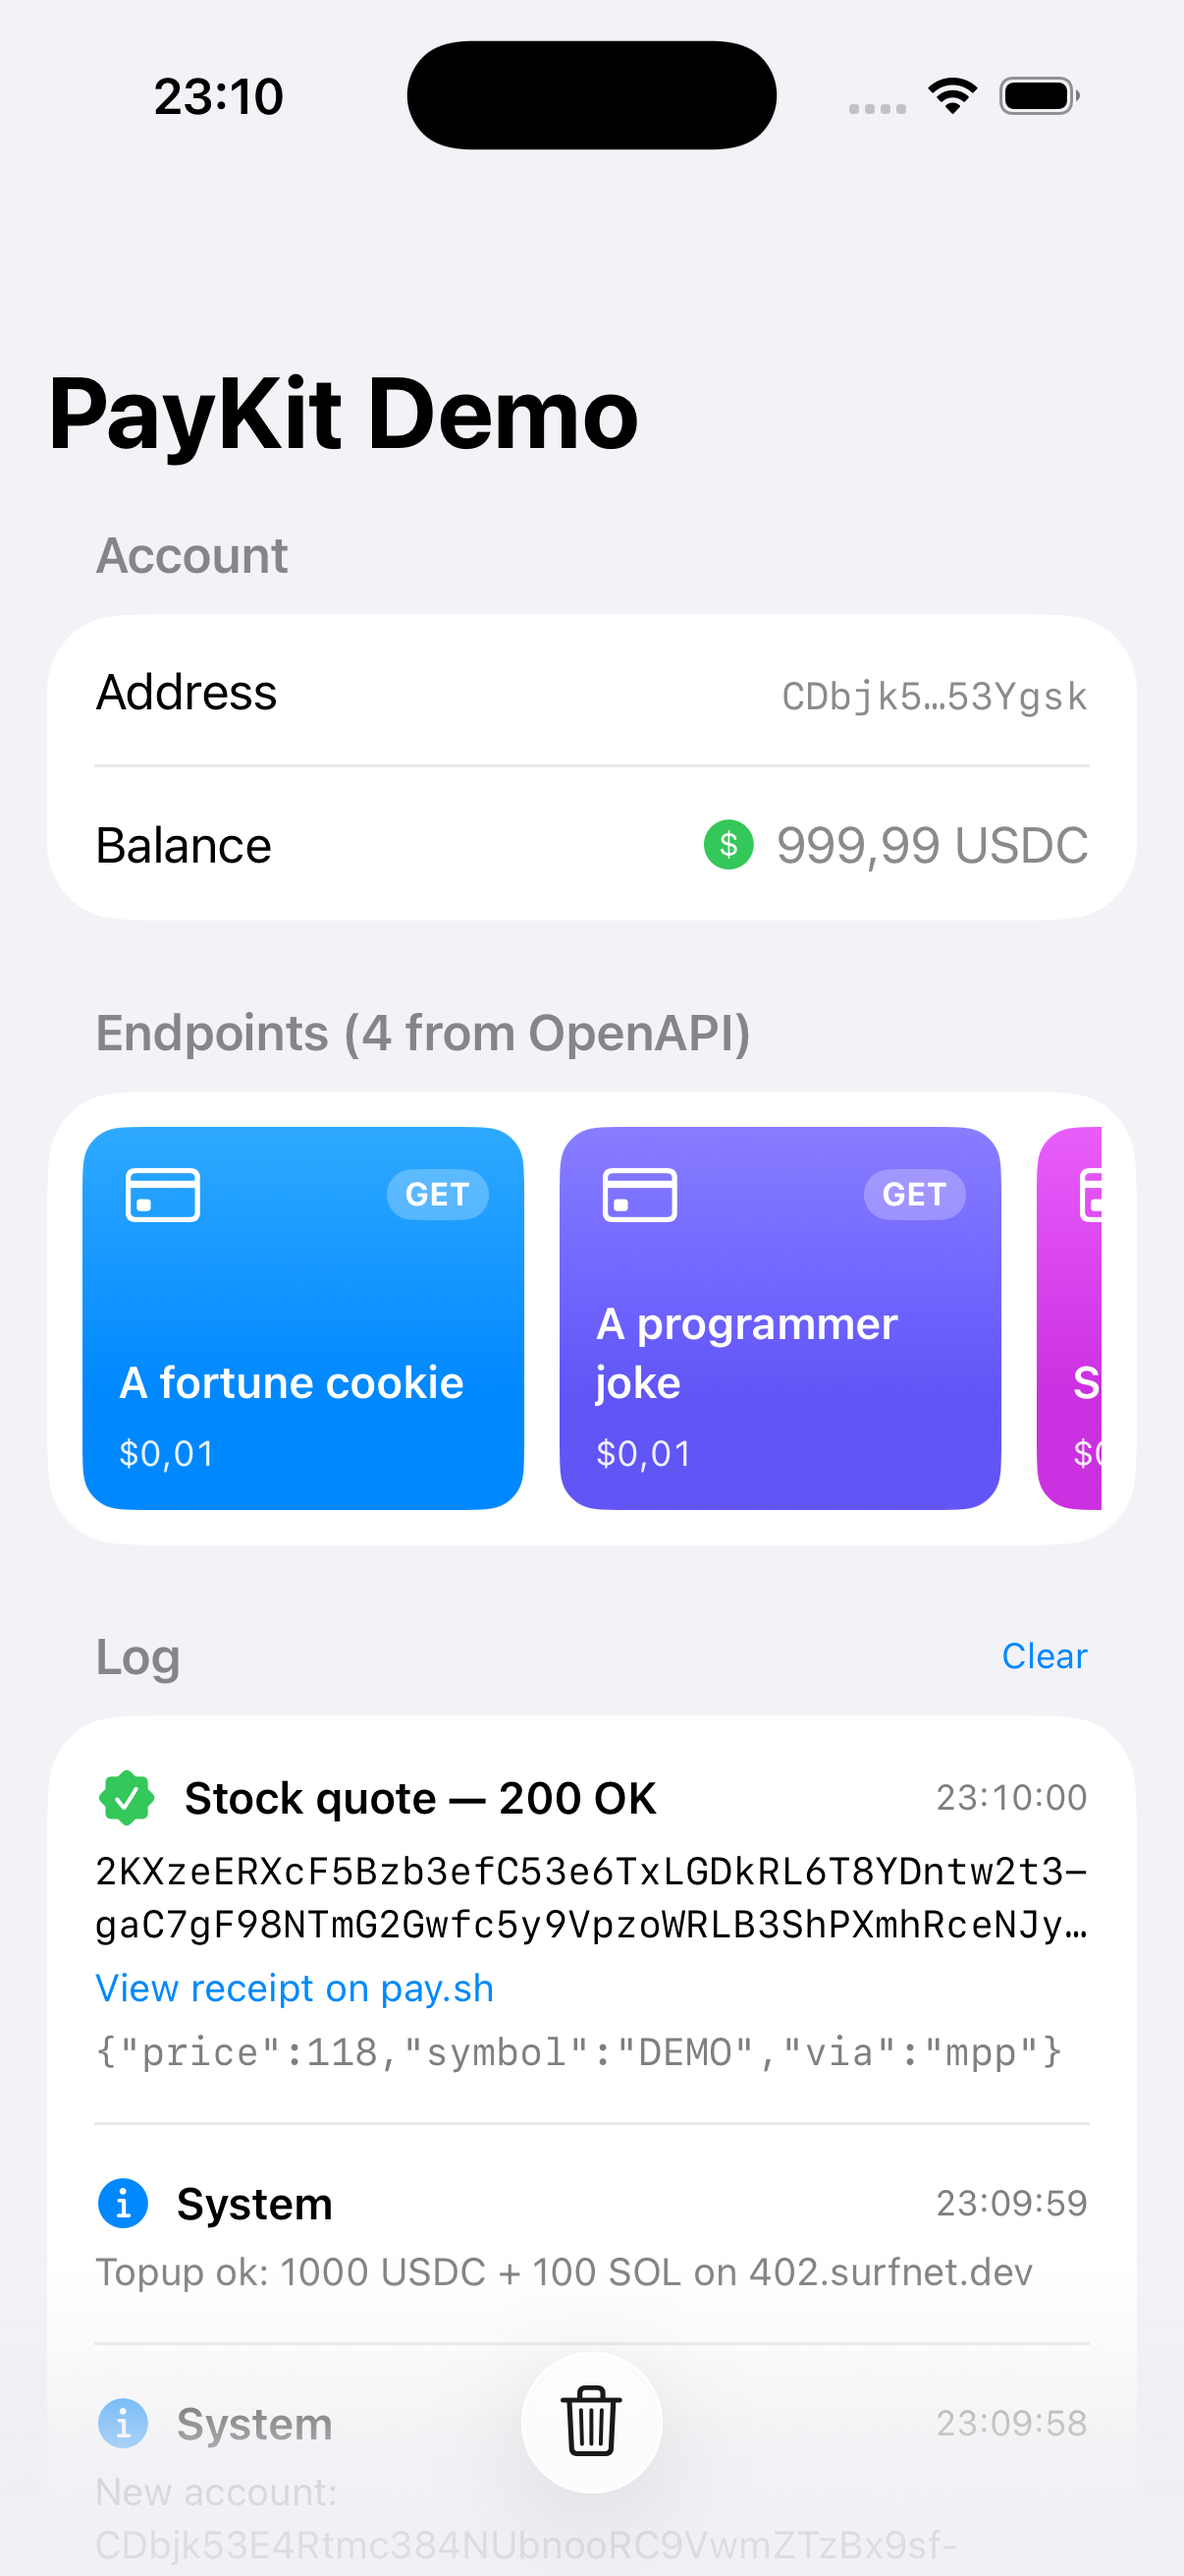
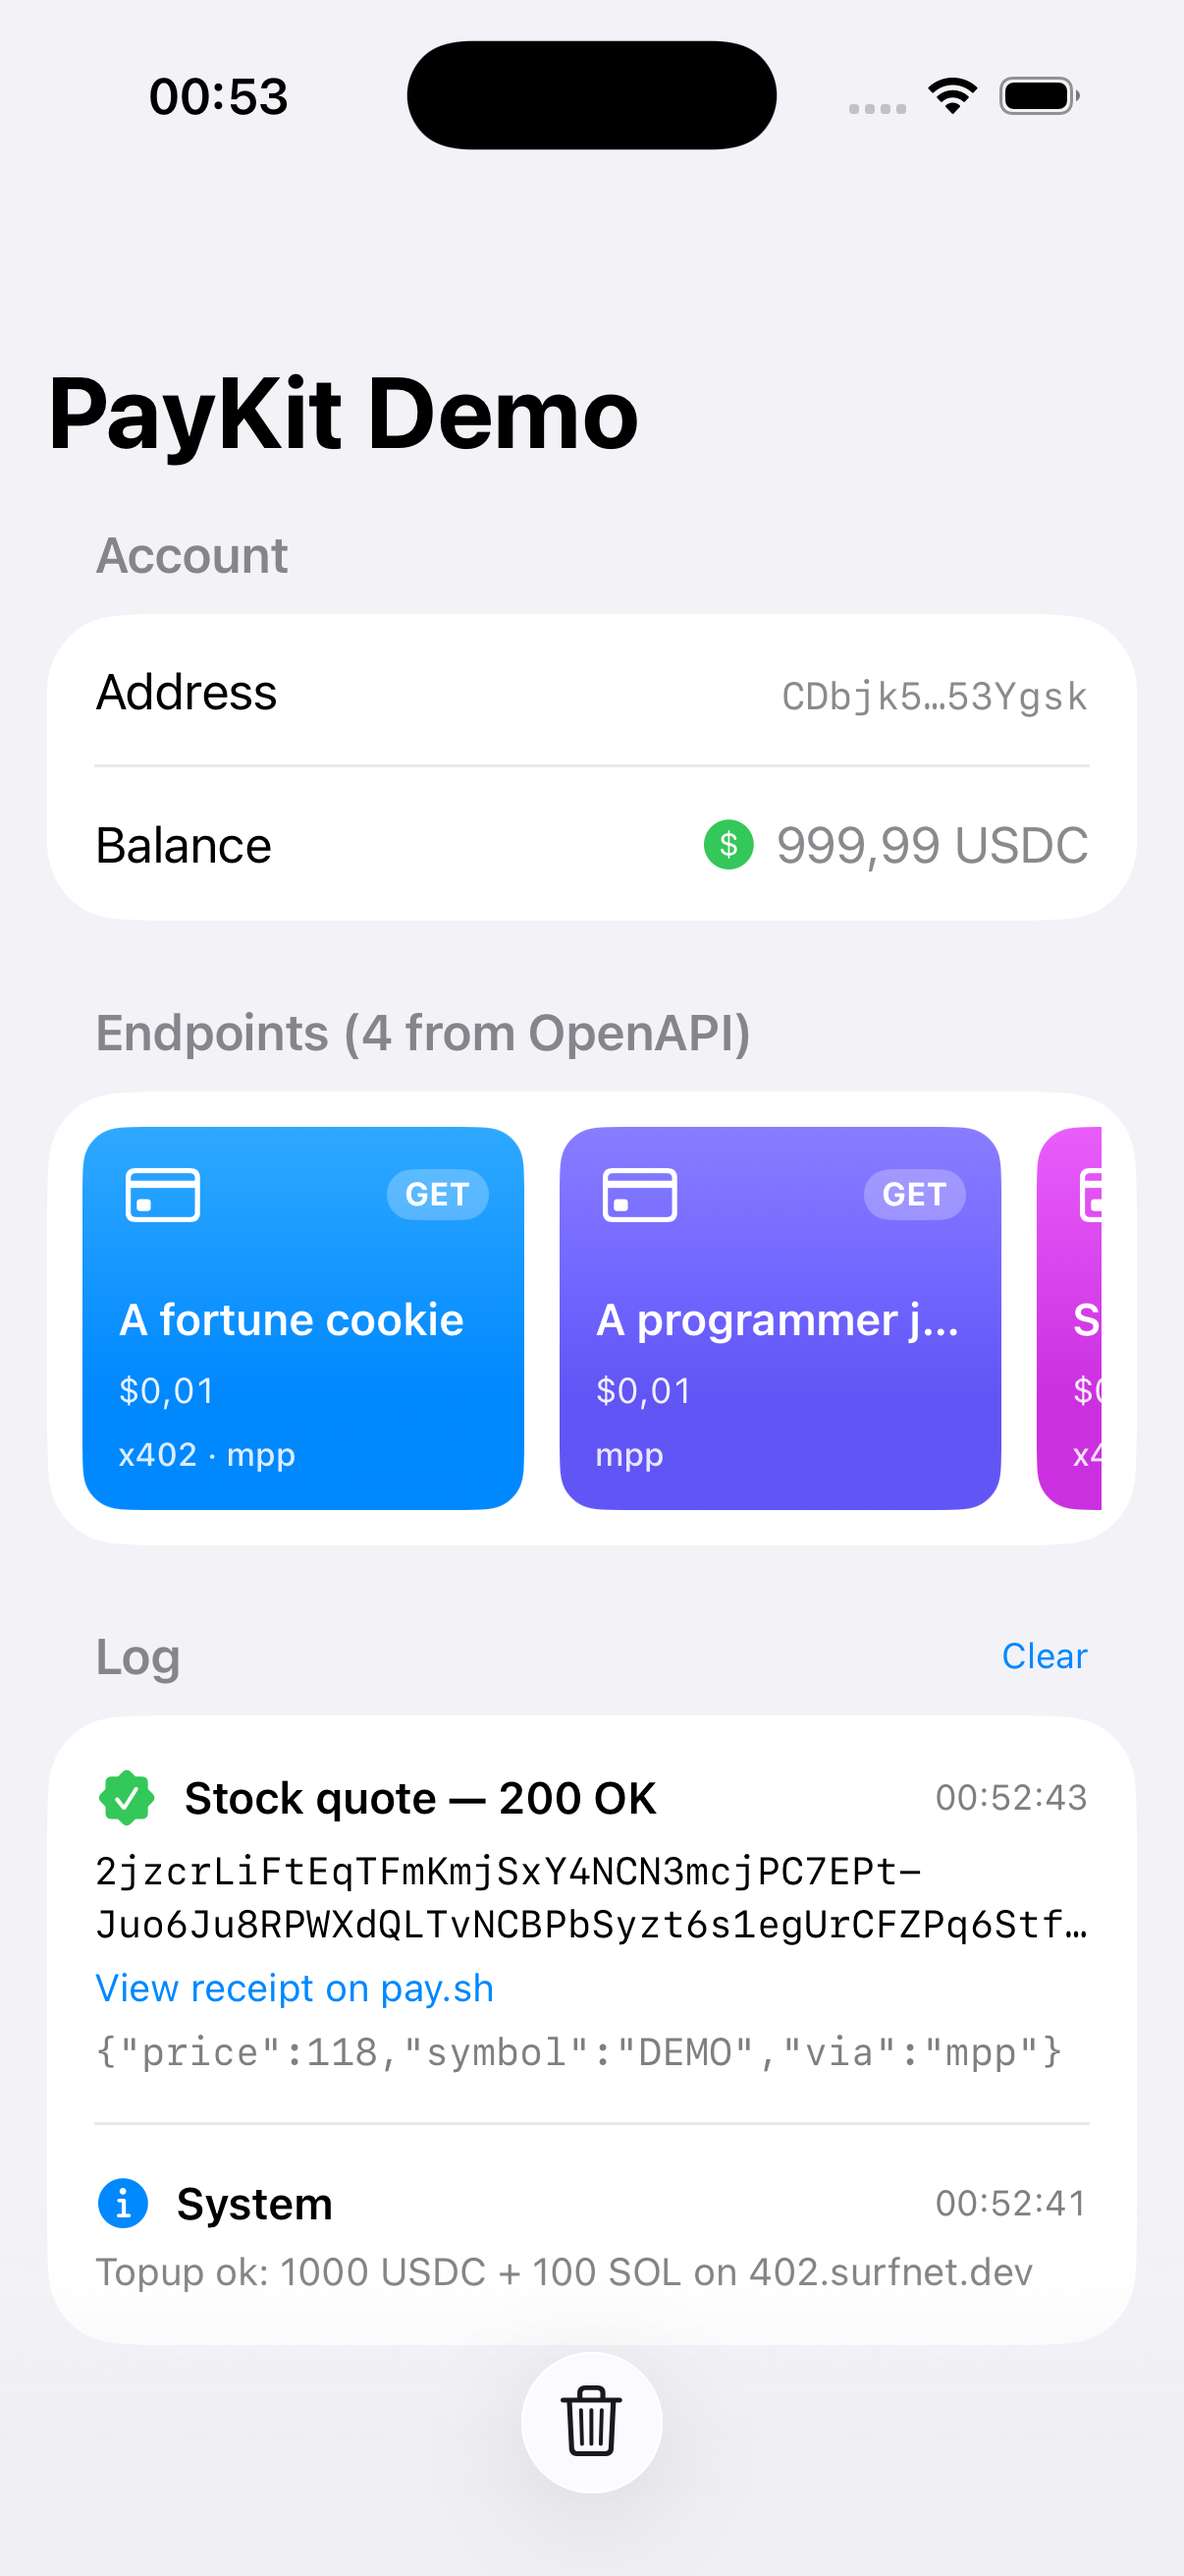
feat(swift/example): surface protocol + intent per endpoint, route consume by intent
Address review: the demo now reads every offer's method (mpp/x402) and the
intent, shows them on each card (e.g. 'x402 · mpp', 'mpp', 'mpp · session'), and
only settles one-shot charge endpoints over MPP. Non-charge intents (session
streaming, subscription, x402 upto) now show a clear message explaining they use
a dedicated multi-step API, instead of firing a charge that the server's
non-charge 402 rejects with unsupportedChallenge. Re-aligned to the current
OpenAPI offers and refreshed the screenshot.

diff --git a/swift/Examples/PayKitDemo/PayKitDemo/ContentView.swift b/swift/Examples/PayKitDemo/PayKitDemo/ContentView.swift
@@ -232,6 +232,20 @@ struct ContentView: View {
 
     private func pay(_ endpoint: Endpoint) async {
         guard let signer else { return }
+
+        // The demo settles one-shot `charge` endpoints over MPP. Other intents
+        // (session streaming, subscription, x402 `upto` usage) are multi-step
+        // flows the SDK exposes through dedicated APIs, not the 402 -> charge ->
+        // retry loop — explain rather than firing a charge that the server's
+        // non-charge 402 would reject.
+        guard endpoint.intent == "charge" else {
+            append(.failure(
+                endpoint: endpoint,
+                message: "\(endpoint.label) is an mpp/\(endpoint.intent) flow, not a one-shot charge. Open it with the session API (PaymentChannelSession) — this tap-to-pay demo only settles charge endpoints."
+            ))
+            return
+        }
+
         let url = playgroundURL.appendingPathComponent(endpoint.path)
 
         busy = .pay(endpoint.id)
@@ -350,6 +364,12 @@ struct Endpoint: Identifiable, Hashable {
     let priceUSD: String
     let systemImage: String
     let tint: Color
+    /// Discovery intent of the first offer (`charge` / `session` / …); the demo
+    /// only settles `charge` over MPP and explains the rest.
+    let intent: String
+    /// Display string of the accepted protocols + non-charge intent, e.g.
+    /// `x402 · mpp` or `mpp · session`.
+    let protocols: String
 }
 
 // MARK: - Endpoint card
@@ -386,6 +406,10 @@ private struct EndpointCard: View {
                 Text(endpoint.priceUSD)
                     .font(.caption.monospacedDigit())
                     .opacity(0.9)
+                Text(endpoint.protocols)
+                    .font(.caption2.weight(.medium))
+                    .opacity(0.85)
+                    .lineLimit(1)
             }
             .padding(12)
             .frame(width: 150, height: 130, alignment: .topLeading)

diff --git a/swift/Examples/PayKitDemo/PayKitDemo/OpenAPI.swift b/swift/Examples/PayKitDemo/PayKitDemo/OpenAPI.swift
@@ -76,8 +76,28 @@ enum OpenAPI {
             path: requestPath(from: path),
             priceUSD: priceString(from: firstOffer),
             systemImage: systemImage(intent: intent, scheme: scheme, method: payMethod),
-            tint: tint(for: index)
+            tint: tint(for: index),
+            intent: (intent?.isEmpty == false) ? intent! : "charge",
+            protocols: protocols(from: offers, intent: intent)
         )
+    }
+
+    /// Display string of the accepted protocols (offer `method`s, de-duplicated
+    /// in offer order) plus the intent when it is not a plain charge — so the
+    /// card surfaces the MPP/x402 split and flags session/subscription routes.
+    /// E.g. `x402 · mpp`, `mpp`, `mpp · session`.
+    static func protocols(from offers: [[String: Any]], intent: String?) -> String {
+        var methods: [String] = []
+        for offer in offers {
+            if let m = offer["method"] as? String, !m.isEmpty, !methods.contains(m) {
+                methods.append(m)
+            }
+        }
+        var parts = methods
+        if let intent, intent.lowercased() != "charge" {
+            parts.append(intent.lowercased())
+        }
+        return parts.isEmpty ? "—" : parts.joined(separator: " · ")
     }
 
     // MARK: - Field derivation
